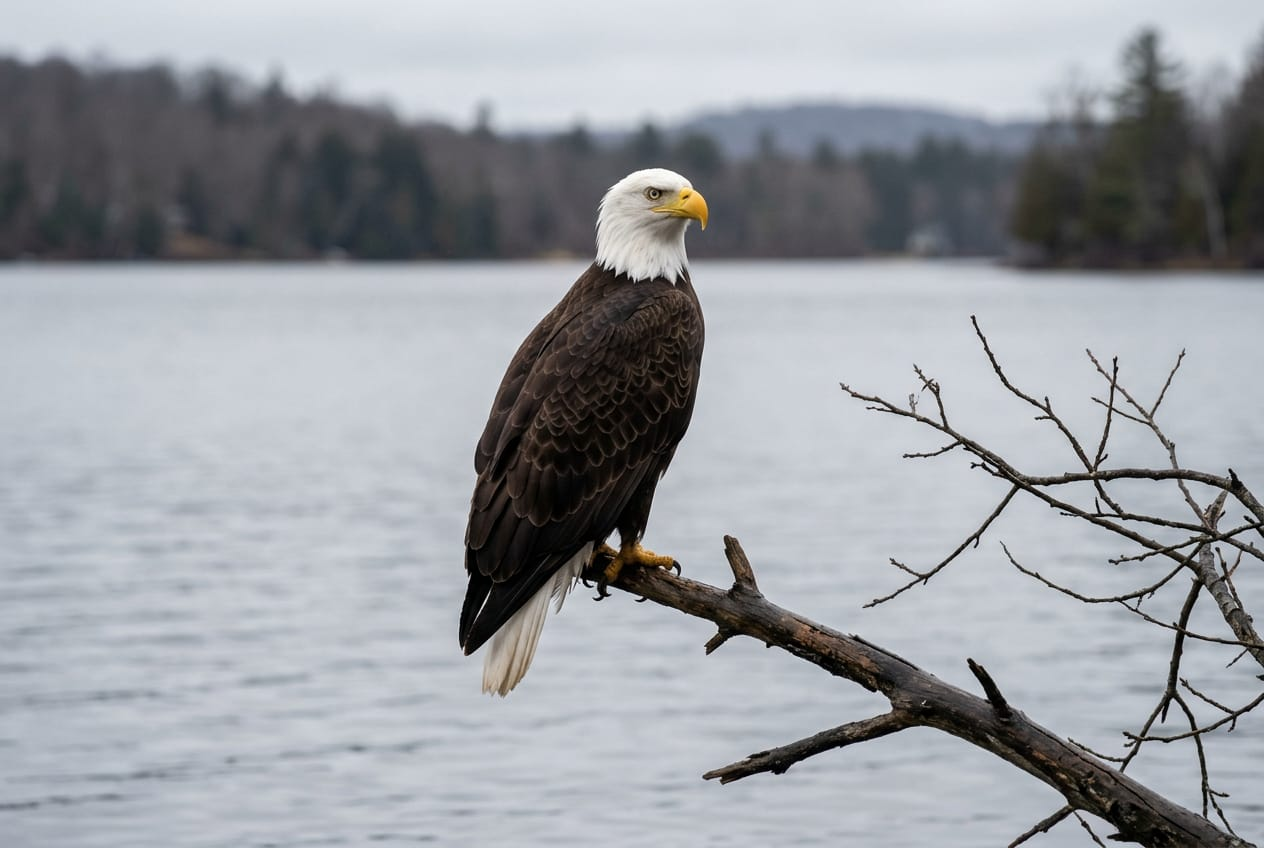
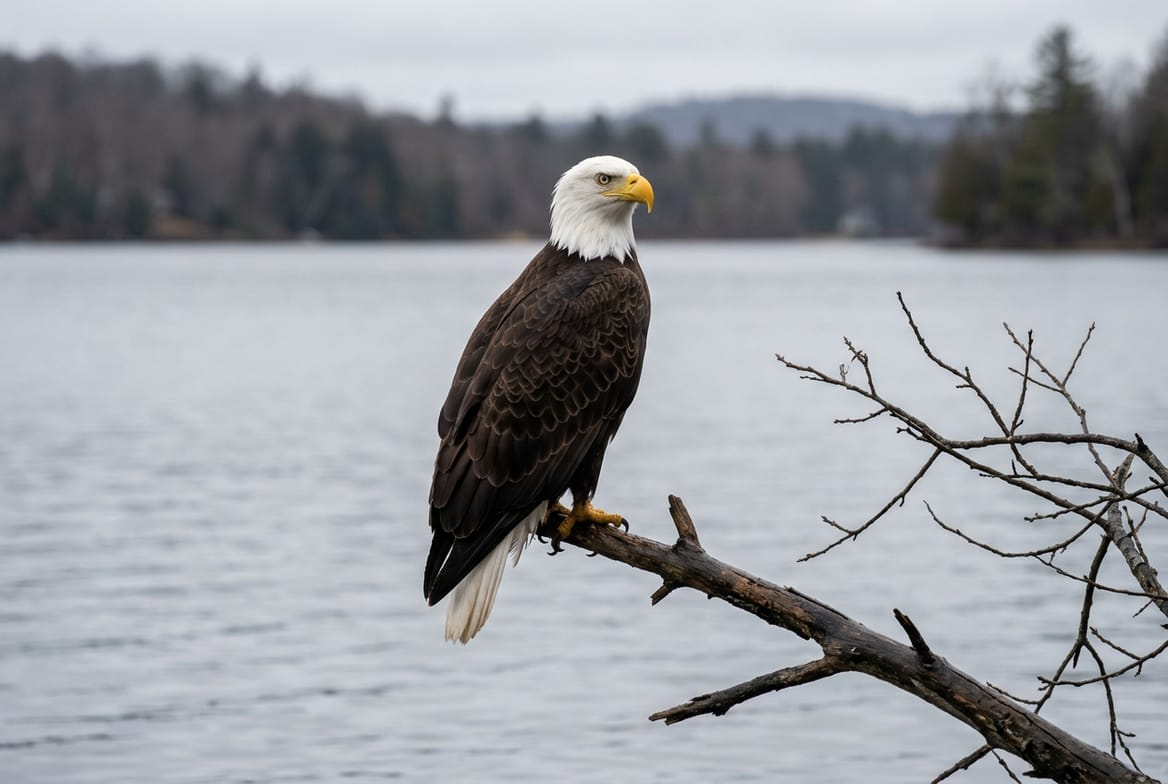
bald eagle: resize both photos to house size, correct the fact prompt spec
Tracing why facts 297 to 314 exist turned up f8af211f, which says a 1600x1067
pass at the fact photos was generated and thrown away because six of the ten
would have been upscaled by a third and softened for nothing. The house size is
1168x784, which is what every one of the ten most recent fact photos and every
other Beastlypedia hero on disk actually is.

So the spec I wrote yesterday was wrong and is corrected: the 22 fact prompts now
say 1168x784 and spell out the rule, which is never enlarge. A frame arriving at
1264x848 is resized down; one arriving smaller is installed at native size.

The eagle pair is brought in line. The hero was 1264x848, the size the generator
delivers, and is now resized to 1168x784 like the other 41 heroes. The secondary
keeps its 848x944 crop, the one that saves the bird from the mobile 16:10 band,
but is brought to the 784 width the other secondaries use, so 784x873. Both
re-encoded through mozjpeg at quality 80, 77KB to 67KB and 111KB to 97KB.

Claude-Session: https://claude.ai/code/session_01R6ibaMZzsE6yLNPZ5dhyBr

diff --git a/IMAGE_PROMPTS.md b/IMAGE_PROMPTS.md
@@ -2249,14 +2249,14 @@ Check: bare yellow tarsi, and no white anywhere on the body. Those two decide
 whether the file is a bald eagle or a generic eagle, and feathered legs mean the
 generator produced a golden.
 
-### bald-eagle-secondary.jpg, 1000x1500
+### bald-eagle-secondary.jpg, 784x873
 Photorealistic wildlife photograph looking up at an enormous bald eagle nest
 built in the crown fork of a tall dead tree, one adult bald eagle standing on
 the rim. The nest is a deep, untidy mound of interlocked sticks and branches far
 larger than the bird, several feet across and deep enough to hide its contents,
 packed with finer material at the centre. Clean white head and tail on a dark
 brown body, large yellow bill. Bare winter branches, pale overcast sky, soft
-natural light, 200mm, f/5.6, 2:3 portrait. The nest is the subject and it has to
+natural light, 200mm, f/5.6, portrait. The nest is the subject and it has to
 read as massive: the bird should look small standing on it. Not a small tidy cup
 nest, not a songbird nest scaled up. Single bird, no text, no watermark, no flag
 or heraldry. Compose the tree vertically through the centre with clear margin on
@@ -2273,7 +2273,7 @@ Install: set `heroImage` and `secondaryImage` on the `bald-eagle` entry in
 `src/lib/data/beastlypedia/birds.js`; both are `null` today and the page renders
 its "Hero image pending" placeholder until they are set.
 
-### Bald eagle fact photos, `public/assets/facts/`, 1600x1067
+### Bald eagle fact photos, `public/assets/facts/`, 1168x784
 
 Four facts, ids 325 to 328, added 2026-09-17. One photo each, never shared
 between them and never the Beastfile hero or secondary: those two are a

diff --git a/IMAGE_PROMPTS_EASY.md b/IMAGE_PROMPTS_EASY.md
@@ -496,13 +496,17 @@ Prompts for these are still in IMAGE_PROMPTS.md, unchanged.
 
 ---
 
-# Fact photos, `public/assets/facts/`, 1600x1067 (22)
+# Fact photos, `public/assets/facts/`, 1168x784 (22)
 
 Every fact on the site has its own photo except these. Ids 297 to 314 are a
 contiguous block that got skipped (everything either side, 1 to 296 and 315 to
 324, is done), and 325 to 328 are the new bald eagle set.
 
-**All are 3:2 at 1600x1067.** One photo per fact, never shared between two facts
+**All are 3:2 at 1168x784.** Never upscale: a frame that arrives at 1264x848 gets
+resized down to 1168x784 and re-encoded through mozjpeg at quality 80, and one
+that arrives smaller is installed at its native size instead of being enlarged.
+A 1600x1067 pass was generated once and thrown away for exactly that reason, so
+do not target it. One photo per fact, never shared between two facts
 and never the same file as a Beastfile hero. The build stamps its own
 "beastlyfacts.com" pill on these, so no prompt asks for text: if a frame comes
 back with lettering on a prop, regenerate it.
